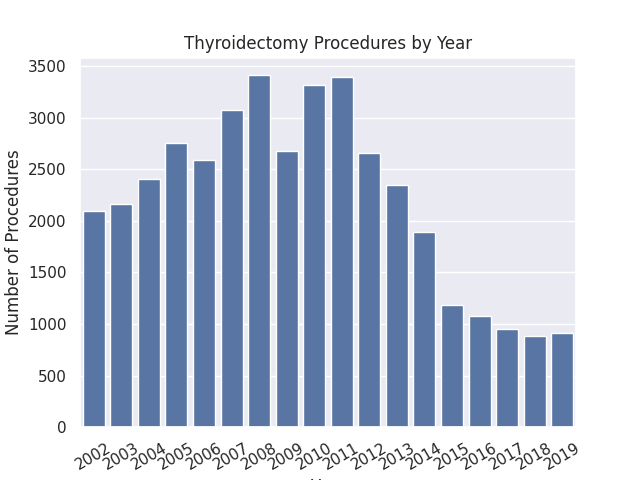
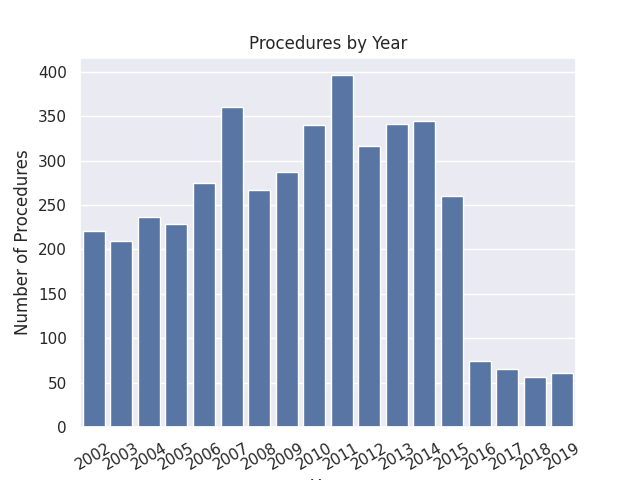
Rebuild tables 1 and 2, start work on fig1

diff --git a/src/nistd/reporting/table2.py b/src/nistd/reporting/table2.py
@@ -1,40 +1,41 @@
 import pandas as pd
 import numpy as np
-from nistd.dataProcessing import label_cols, get_dtypes
+from nistd.dataProcessing import label_cols, get_dtypes, ProcClass
 
 if __name__ == "__main__":
-    processed_df = pd.read_csv("cache/preprocessed.csv")
-    filtered_df = pd.read_csv("cache/filtered.csv", dtype=get_dtypes())
+    for pclass in ProcClass:
+        processed_df = pd.read_csv(f"cache/preprocessed_{pclass.name}.csv")
+        filtered_df = pd.read_csv(f"cache/filtered_{pclass.name}.csv", dtype=get_dtypes())
 
-    outcomes_df = processed_df[[c for c in processed_df.columns if c in label_cols]]
+        outcomes_df = processed_df[[c for c in processed_df.columns if c in label_cols]]
 
-    all_n, all_percent = list(), list()
+        all_n, all_percent = list(), list()
 
-    for outcome_name in outcomes_df.columns:
-        # Assuming all are binary
-        assert outcomes_df[outcome_name].isin([0.0, 1.0]).all()
+        for outcome_name in outcomes_df.columns:
+            # Assuming all are binary
+            assert outcomes_df[outcome_name].isin([0.0, 1.0]).all()
 
-        n = outcomes_df[outcome_name].sum()
-        percent = (n / len(outcomes_df)) * 100
+            n = outcomes_df[outcome_name].sum()
+            percent = (n / len(outcomes_df)) * 100
 
-        all_n.append(n)
-        all_percent.append(percent)
+            all_n.append(n)
+            all_percent.append(percent)
 
-    table2_df = pd.DataFrame(
-        data={"N": all_n, "%": all_percent}, index=outcomes_df.columns
-    )
+        table2_df = pd.DataFrame(
+            data={"N": all_n, "%": all_percent}, index=outcomes_df.columns
+        )
 
-    table2_df["N (%)"] = table2_df.apply(
-        lambda row: f"{row['N']} ({row['%']:.2f})", axis=1
-    )
+        table2_df["N (%)"] = table2_df.apply(
+            lambda row: f"{row['N']} ({row['%']:.2f})", axis=1
+        )
 
-    # Get age mean / sem
-    age_mean = filtered_df["LOS"].mean()
-    age_sem = filtered_df["LOS"].std() / np.sqrt(len(filtered_df))
-    as_str = f"{age_mean:.2f} +/- {age_sem:.2f}"
-    table2_df = pd.concat(
-        [pd.DataFrame(data={"N (%)": as_str}, index=["LOS mean"]), table2_df]
-    )
+        # Get age mean / sem
+        age_mean = filtered_df["LOS"].mean()
+        age_sem = filtered_df["LOS"].std() / np.sqrt(len(filtered_df))
+        as_str = f"{age_mean:.2f} +/- {age_sem:.2f}"
+        table2_df = pd.concat(
+            [pd.DataFrame(data={"N (%)": as_str}, index=["LOS mean"]), table2_df]
+        )
 
-    table2_df = table2_df.drop(columns=["N", "%"])
-    table2_df.to_csv("results/table2.csv")
+        table2_df = table2_df.drop(columns=["N", "%"])
+        table2_df.to_csv(f"results/table2_{pclass.name}.csv")

diff --git a/src/nistd/reporting/table1.py b/src/nistd/reporting/table1.py
@@ -1,38 +1,41 @@
 import pandas as pd
 import numpy as np
-from nistd.dataProcessing import label_cols, categorical_cols, get_dtypes
+from nistd.dataProcessing import label_cols, categorical_cols, get_dtypes, ProcClass
 
 if __name__ == "__main__":
-    processed_df = pd.read_csv("cache/preprocessed.csv")
-    filtered_df = pd.read_csv("cache/filtered.csv", dtype=get_dtypes())
-
-    categoricals = processed_df[
-        [c for c in processed_df.columns if c in categorical_cols]
-    ]
-
-    all_n, all_percent = list(), list()
-    table1_df = pd.DataFrame()
-
-    for variable_name in categoricals.columns:
-        vc = categoricals[variable_name].value_counts()
-
-        def format_n(n):
-            percent = n / len(processed_df) * 100
-            return f"{n} ({percent:.2f})"
-
-        table1_df = table1_df.append(
-            pd.DataFrame(
-                data={"N (%)": vc.apply(format_n).values},
-                index=vc.index.map(lambda x: f"[{vc.name}] {x}"),
-            )
+    for pclass in ProcClass:
+        processed_df = pd.read_csv(f"cache/preprocessed_{pclass.name}.csv")
+        filtered_df = pd.read_csv(
+            f"cache/filtered_{pclass.name}.csv", dtype=get_dtypes()
         )
 
-    # Get age mean / sem
-    age_mean = filtered_df["AGE"].mean()
-    age_sem = filtered_df["AGE"].std() / np.sqrt(len(filtered_df))
-    as_str = f"{age_mean:.2f} +/- {age_sem:.2f}"
-    table1_df = pd.concat(
-        [pd.DataFrame(data={"N (%)": as_str}, index=["Age mean"]), table1_df]
-    )
+        categoricals = processed_df[
+            [c for c in processed_df.columns if c in categorical_cols]
+        ]
 
-    table1_df.to_csv("results/table1.csv")
+        all_n, all_percent = list(), list()
+        table1_df = pd.DataFrame()
+
+        for variable_name in categoricals.columns:
+            vc = categoricals[variable_name].value_counts()
+
+            def format_n(n):
+                percent = n / len(processed_df) * 100
+                return f"{n} ({percent:.2f})"
+
+            table1_df = table1_df.append(
+                pd.DataFrame(
+                    data={"N (%)": vc.apply(format_n).values},
+                    index=vc.index.map(lambda x: f"[{vc.name}] {x}"),
+                )
+            )
+
+        # Get age mean / sem
+        age_mean = filtered_df["AGE"].mean()
+        age_sem = filtered_df["AGE"].std() / np.sqrt(len(filtered_df))
+        as_str = f"{age_mean:.2f} +/- {age_sem:.2f}"
+        table1_df = pd.concat(
+            [pd.DataFrame(data={"N (%)": as_str}, index=["Age mean"]), table1_df]
+        )
+
+        table1_df.to_csv(f"results/table1_{pclass.name}.csv")

diff --git a/src/nistd/reporting/fig1.py b/src/nistd/reporting/fig1.py
@@ -4,7 +4,13 @@ import seaborn as sns
 import matplotlib.pyplot as plt
 
 if __name__ == "__main__":
-    filtered_df = pd.read_csv("cache/filtered.csv", dtype=get_dtypes(), index_col=0)
+    filtered_df = pd.read_csv(
+        "cache/filtered_OPEN.csv", dtype=get_dtypes(), index_col=0
+    )
+    filtered_df = filtered_df.append(
+        pd.read_csv("cache/filtered_LAPAROSCOPIC.csv", dtype=get_dtypes(), index_col=0)
+    )
+
     counts = filtered_df["YEAR"].value_counts().sort_index()
     counts_df = counts.reset_index()
     counts_df.columns = ["Year", "Number of Procedures"]
@@ -12,6 +18,6 @@ if __name__ == "__main__":
     sns.set_theme()
     ax = sns.barplot(x="Year", y="Number of Procedures", data=counts_df, color="b")
     ax.set_xticklabels(ax.get_xticklabels(), rotation=30)
-    ax.set_title("Thyroidectomy Procedures by Year")
+    ax.set_title("Procedures by Year")
 
     plt.savefig("results/fig1.png")

diff --git a/src/nistd/dataProcessing/preprocess.py b/src/nistd/dataProcessing/preprocess.py
@@ -100,7 +100,7 @@ if __name__ == "__main__":
 
         df_out = df_out.rename(columns={"FEMALE": "SEX"})
 
-        df_out["PROLONGED_LOS"] = df_in["LOS"] > 3
+        df_out["PROLONGED_LOS"] = df_in["LOS"] > 10
 
         def has_anastomotic_leak(row):
             return row[proc_cols].isin(pclass.getAnastomosisCodes)

diff --git a/src/nistd/dataProcessing/__init__.py b/src/nistd/dataProcessing/__init__.py
@@ -5,7 +5,7 @@ from nistd import icdcodes
 from enum import Enum, auto
 
 
-label_cols = ["DIED", "PROLONGED_LOS", "OR_RETURN"]
+label_cols = ["DIED", "PROLONGED_LOS", "ANASTOMOTIC_LEAK", "INFECTION"]
 categorical_cols = [
     "SEX",
     "HOSP_LOCTEACH",
